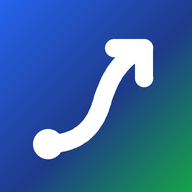
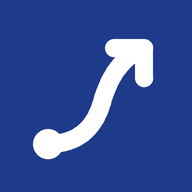
Refresh branding assets, styles and error pages

diff --git a/templates/base.html b/templates/base.html
@@ -13,7 +13,7 @@
     {% block keywords %}<meta name="keywords" content="KUCCPS, KCSE cluster points calculator, Kenya university placement, KMTC courses, TVET courses, cluster points, KCSE results 2024 2025">{% endblock %}
     <meta name="robots" content="index, follow">
     <meta name="author" content="CareerNext">
-    {% block canonical %}{% endblock %}
+    {% block canonical %}<link rel="canonical" href="https://www.careernext.co.ke{{ request.path }}">{% endblock %}
 
     <!-- Open Graph -->
     <meta property="og:type" content="{% block og_type %}website{% endblock %}">
@@ -68,23 +68,23 @@
       "@context": "https://schema.org",
       "@type": "WebSite",
       "name": "CareerNext",
-      "url": "https://careernext.co.ke",
+      "url": "https://www.careernext.co.ke",
       "description": "Kenya's open access KCSE cluster points calculator and KUCCPS course finder. Discover university, KMTC, TVET and TTC courses you qualify for.",
       "potentialAction": {
         "@type": "SearchAction",
         "target": {
           "@type": "EntryPoint",
-          "urlTemplate": "https://careernext.co.ke/api/search/?q={search_term_string}"
+          "urlTemplate": "https://www.careernext.co.ke/api/search/?q={search_term_string}"
         },
         "query-input": "required name=search_term_string"
       },
       "publisher": {
         "@type": "Organization",
         "name": "CareerNext",
-        "url": "https://careernext.co.ke",
+        "url": "https://www.careernext.co.ke",
         "logo": {
           "@type": "ImageObject",
-          "url": "https://careernext.co.ke{% static 'img/logo-mark.svg' %}"
+          "url": "https://www.careernext.co.ke{% static 'img/logo-mark.svg' %}"
         },
         "contactPoint": {
           "@type": "ContactPoint",
@@ -134,10 +134,9 @@
       <div class="cap-halo"></div>
     </div>
 
-    <!-- Logo with shimmer sweep -->
+    <!-- Logo -->
     <div class="splash-logo-wrap">
       <span class="splash-logo" id="splashLogo">CareerNext</span>
-      <span class="splash-shimmer" aria-hidden="true"></span>
     </div>
 
     <!-- Typewriter tagline -->
@@ -204,29 +203,7 @@
 .splash-logo {
   font-size: clamp(2.2rem, 9vw, 3.6rem);
   font-weight: 900; letter-spacing: -1.5px;
-  background: #ffffff;
-  -webkit-background-clip: text; -webkit-text-fill-color: transparent;
-  background-clip: text; display: block;
-}
-/* Shimmer sweep: light moves from tail (right) to top-left */
-.splash-shimmer {
-  position: absolute; inset: 0;
-  background: linear-gradient(
-    105deg,
-    transparent 20%,
-    rgba(255,255,255,0.55) 48%,
-    rgba(255,255,255,0.75) 52%,
-    transparent 80%
-  );
-  background-size: 200% 100%;
-  background-position: 200% 0;
-  -webkit-background-clip: text; background-clip: text;
-  animation: shimmerSweep 1.1s 0.8s ease forwards;
-  pointer-events: none;
-}
-@keyframes shimmerSweep {
-  from { background-position: 200% 0; }
-  to   { background-position: -40% 0; }
+  color: #ffffff; display: block;
 }
 
 /* ── Tagline ── */
@@ -1406,23 +1383,23 @@ window._ph = function (name, props) {
     <div style="background:#1e3a8a;padding:1rem 1.25rem;
                 display:flex;align-items:center;justify-content:space-between;">
       <span style="color:#fff;font-weight:800;font-size:0.95rem;">Send Feedback</span>
-      <button onclick="document.getElementById('fb-modal').style.display='none'"
+      <button type="button" aria-label="Close feedback" onclick="document.getElementById('fb-modal').style.display='none'"
         style="background:rgba(255,255,255,0.15);border:none;color:#fff;border-radius:50%;
                width:28px;height:28px;cursor:pointer;font-size:1rem;line-height:1;">&times;</button>
     </div>
     <form id="fb-form" onsubmit="submitFeedback(event)" style="padding:1.25rem;display:flex;flex-direction:column;gap:0.85rem;">
       {% csrf_token %}
       <input type="hidden" name="page_url" id="fb-page-url">
-      <select name="feedback_type" style="border:1.5px solid #e2e8f0;border-radius:10px;padding:0.55rem 0.75rem;font-size:0.85rem;color:#374151;outline:none;">
+      <select name="feedback_type" aria-label="Feedback type" style="border:1.5px solid #e2e8f0;border-radius:10px;padding:0.55rem 0.75rem;font-size:0.85rem;color:#374151;outline:none;">
         <option value="general">General Feedback</option>
         <option value="bug">Bug Report</option>
         <option value="suggestion">Feature Suggestion</option>
         <option value="content">Content Error</option>
       </select>
-      <textarea name="message" required maxlength="2000" rows="4" placeholder="Tell us what you think..."
+      <textarea name="message" required maxlength="2000" rows="4" aria-label="Your feedback" placeholder="Tell us what you think..."
         style="border:1.5px solid #e2e8f0;border-radius:10px;padding:0.65rem 0.75rem;
                font-size:0.85rem;resize:vertical;outline:none;font-family:inherit;color:#374151;"></textarea>
-      <input type="email" name="email" placeholder="Your email (optional, for follow-up)"
+      <input type="email" name="email" aria-label="Your email (optional)" placeholder="Your email (optional, for follow-up)"
         style="border:1.5px solid #e2e8f0;border-radius:10px;padding:0.55rem 0.75rem;font-size:0.85rem;outline:none;">
       <div id="fb-status" style="display:none;font-size:0.82rem;font-weight:600;text-align:center;padding:0.4rem;border-radius:8px;"></div>
       <button type="submit" style="background:#1e3a8a;color:#fff;border:none;

diff --git a/static/css/style.css b/static/css/style.css
@@ -570,14 +570,13 @@ small, .small { font-size: 0.875rem; }
 
 
 /* ── 14. SKELETON LOADERS ───────────────────────────────────── */
-@keyframes skeletonShimmer {
-  0%   { background-position: -200% 0; }
-  100% { background-position:  200% 0; }
+@keyframes skeletonPulse {
+  0%, 100% { opacity: 1; }
+  50%      { opacity: 0.55; }
 }
 .skeleton {
-  background: linear-gradient(90deg, var(--surface-2) 25%, #fff 50%, var(--surface-2) 75%);
-  background-size: 200% 100%;
-  animation: skeletonShimmer 1.4s ease-in-out infinite;
+  background: var(--surface-2);
+  animation: skeletonPulse 1.4s ease-in-out infinite;
   border-radius: var(--radius-sm);
 }
 .skeleton-text       { height: 1em; width: 100%; margin-bottom: 0.5rem; }
@@ -722,7 +721,7 @@ small, .small { font-size: 0.875rem; }
   display: flex; flex-direction: column; justify-content: center;
   overflow-y: auto;
 }
-.auth-panel-right h2 { font-size: 1.35rem; font-weight: 800; color: var(--text); margin-bottom: 0.25rem; letter-spacing: -0.3px; }
+.auth-panel-right h1, .auth-panel-right h2 { font-size: 1.35rem; font-weight: 800; color: var(--text); margin-bottom: 0.25rem; letter-spacing: -0.3px; }
 .auth-panel-sub-text { font-size: 0.83rem; color: var(--text-3); margin-bottom: 1.5rem; }
 
 /* Auth form fields */
@@ -1038,7 +1037,7 @@ body.dark .mobile-bottom-nav a { color: var(--text-3); }
 body.dark .mobile-bottom-nav a:hover, body.dark .mobile-bottom-nav a.active { color: var(--primary-light); }
 
 /* Skeleton */
-body.dark .skeleton { background: linear-gradient(90deg, var(--surface) 25%, var(--surface-2) 50%, var(--surface) 75%); background-size: 200% 100%; }
+body.dark .skeleton { background: var(--surface-2); }
 body.dark .skeleton-card { background: var(--surface); border-color: var(--border); }
 
 /* Feature tiles */
@@ -1056,7 +1055,7 @@ body.dark .feature-icon-teal   { background: rgba(13,148,136,0.15); }
 /* Auth */
 body.dark .auth-split { background: var(--surface); }
 body.dark .auth-card  { background: var(--surface); }
-body.dark .auth-panel-right h2 { color: var(--text); }
+body.dark .auth-panel-right h1, body.dark .auth-panel-right h2 { color: var(--text); }
 body.dark .auth-panel-sub-text { color: var(--text-2); }
 body.dark .auth-field > label  { color: var(--text); }
 body.dark .auth-field .form-control { background: var(--surface-2); border-color: var(--border); color: var(--text); }

diff --git a/templates/429.html b/templates/429.html
@@ -17,9 +17,7 @@
              text-decoration: none; letter-spacing: -0.5px; }
     .brand span { color: #93c5fd; }
     .hero-num { font-size: 8rem; font-weight: 800; line-height: 1;
-                background: #d97706;
-                -webkit-background-clip: text; -webkit-text-fill-color: transparent;
-                background-clip: text; }
+                color: #d97706; }
     footer { margin-top: auto; background: var(--primary); color: rgba(255,255,255,0.6);
              text-align: center; padding: 1.25rem; font-size: 0.85rem; }
     #countdown { font-weight: 800; font-size: 1.3rem; color: #d97706; }
@@ -55,7 +53,7 @@
           <a href="/" class="btn btn-outline-secondary">
             <i class="fas fa-home me-2"></i>Go Home
           </a>
-          <a href="/clusterpoints/" class="btn btn-outline-secondary">
+          <a href="/clusterpoints/calculator/" class="btn btn-outline-secondary">
             <i class="fas fa-calculator me-2"></i>Calculator
           </a>
         </div>
@@ -65,7 +63,7 @@
             <i class="fas fa-lightbulb me-1 text-warning"></i>While you wait
           </h6>
           <ul class="text-muted small mb-0 ps-3">
-            <li>Review your cluster points on the <a href="/clusterpoints/">calculator</a></li>
+            <li>Review your cluster points on the <a href="/clusterpoints/calculator/">calculator</a></li>
             <li>Browse <a href="/courses/">available courses</a> by type</li>
             <li>Explore <a href="/institutions/">universities and colleges</a> in Kenya</li>
             <li>Read our <a href="/resources/">guides on KUCCPS application</a></li>

diff --git a/templates/503.html b/templates/503.html
@@ -37,10 +37,7 @@
     .brand span { color: #93c5fd; }
     .hero-icon {
       font-size: 4.5rem;
-      background: var(--primary);
-      -webkit-background-clip: text;
-      -webkit-text-fill-color: transparent;
-      background-clip: text;
+      color: var(--primary);
     }
     footer {
       margin-top: auto;

diff --git a/templates/404.html b/templates/404.html
@@ -8,8 +8,7 @@
 
       <!-- Big 404 number -->
       <div class="mb-4" style="font-size:8rem;font-weight:800;line-height:1;
-           background:#1e3a8a;
-           -webkit-background-clip:text;-webkit-text-fill-color:transparent;background-clip:text;">
+           color:#1e3a8a;">
         404
       </div>
 

diff --git a/templates/500.html b/templates/500.html
@@ -38,10 +38,7 @@
       font-size: 8rem;
       font-weight: 800;
       line-height: 1;
-      background: var(--primary);
-      -webkit-background-clip: text;
-      -webkit-text-fill-color: transparent;
-      background-clip: text;
+      color: var(--primary);
     }
     footer {
       margin-top: auto;

diff --git a/scripts/gen_icons.py b/scripts/gen_icons.py
@@ -1,11 +1,11 @@
 """
 Generate CareerNext PNG / ICO brand assets from the SVG logo design.
 
-Renders the logo mark (gradient tile + rising path + forward arrowhead)
-directly with Pillow so the diagonal blue->green gradient is exact.
+Renders the logo mark (solid navy tile + rising path + forward arrowhead)
+directly with Pillow.
 
 Outputs (into static/images/):
-  icon-192.png, icon-512.png   -> PWA maskable icons (full-bleed gradient)
+  icon-192.png, icon-512.png   -> PWA maskable icons (full-bleed tile)
   icon-180.png                 -> apple-touch-icon
   favicon.ico                  -> multi-size favicon (16/32/48)
   logo-og.png                  -> 1200x630 social share card (light bg + lockup)
@@ -16,33 +16,8 @@ from PIL import Image, ImageDraw, ImageFont
 OUT = os.path.join(os.path.dirname(__file__), "..", "static", "images")
 os.makedirs(OUT, exist_ok=True)
 
-# Brand gradient stops (position 0..1, RGB)
-STOPS = [(0.0, (0x25, 0x63, 0xeb)), (0.55, (0x1e, 0x3a, 0x8a)), (1.0, (0x16, 0xa3, 0x4a))]
-
-
-def _lerp(a, b, t):
-    return tuple(round(a[i] + (b[i] - a[i]) * t) for i in range(3))
-
-
-def _grad_color(t):
-    t = max(0.0, min(1.0, t))
-    for i in range(len(STOPS) - 1):
-        p0, c0 = STOPS[i]
-        p1, c1 = STOPS[i + 1]
-        if p0 <= t <= p1:
-            return _lerp(c0, c1, (t - p0) / (p1 - p0))
-    return STOPS[-1][1]
-
-
-def diagonal_gradient(size):
-    """Diagonal (top-left -> bottom-right) gradient image, no alpha."""
-    g = Image.new("RGB", (size, size))
-    px = g.load()
-    maxd = (size - 1) * 2
-    for y in range(size):
-        for x in range(size):
-            px[x, y] = _grad_color((x + y) / maxd)
-    return g
+# Brand tile colour (solid navy — the site uses no colour gradients)
+BRAND = (0x1e, 0x3a, 0x8a)
 
 
 def quad_points(p0, c, p1, n=40):
@@ -85,15 +60,15 @@ def draw_mark_glyph(draw, f, ox=0.0, oy=0.0, color=(255, 255, 255)):
 def render_mark(size, full_bleed=True, ss=4):
     """Render the square mark at `size`px. full_bleed = no rounded corners (maskable)."""
     big = size * ss
-    grad = diagonal_gradient(max(64, big // 8)).resize((big, big), Image.BICUBIC)
+    tile = Image.new("RGB", (big, big), BRAND)
     img = Image.new("RGBA", (big, big), (0, 0, 0, 0))
 
     if full_bleed:
-        img.paste(grad, (0, 0))
+        img.paste(tile, (0, 0))
     else:
         mask = Image.new("L", (big, big), 0)
         ImageDraw.Draw(mask).rounded_rectangle([0, 0, big - 1, big - 1], radius=int(big * 0.14), fill=255)
-        img.paste(grad, (0, 0), mask)
+        img.paste(tile, (0, 0), mask)
 
     f = big / 64.0
     draw_mark_glyph(ImageDraw.Draw(img), f)
